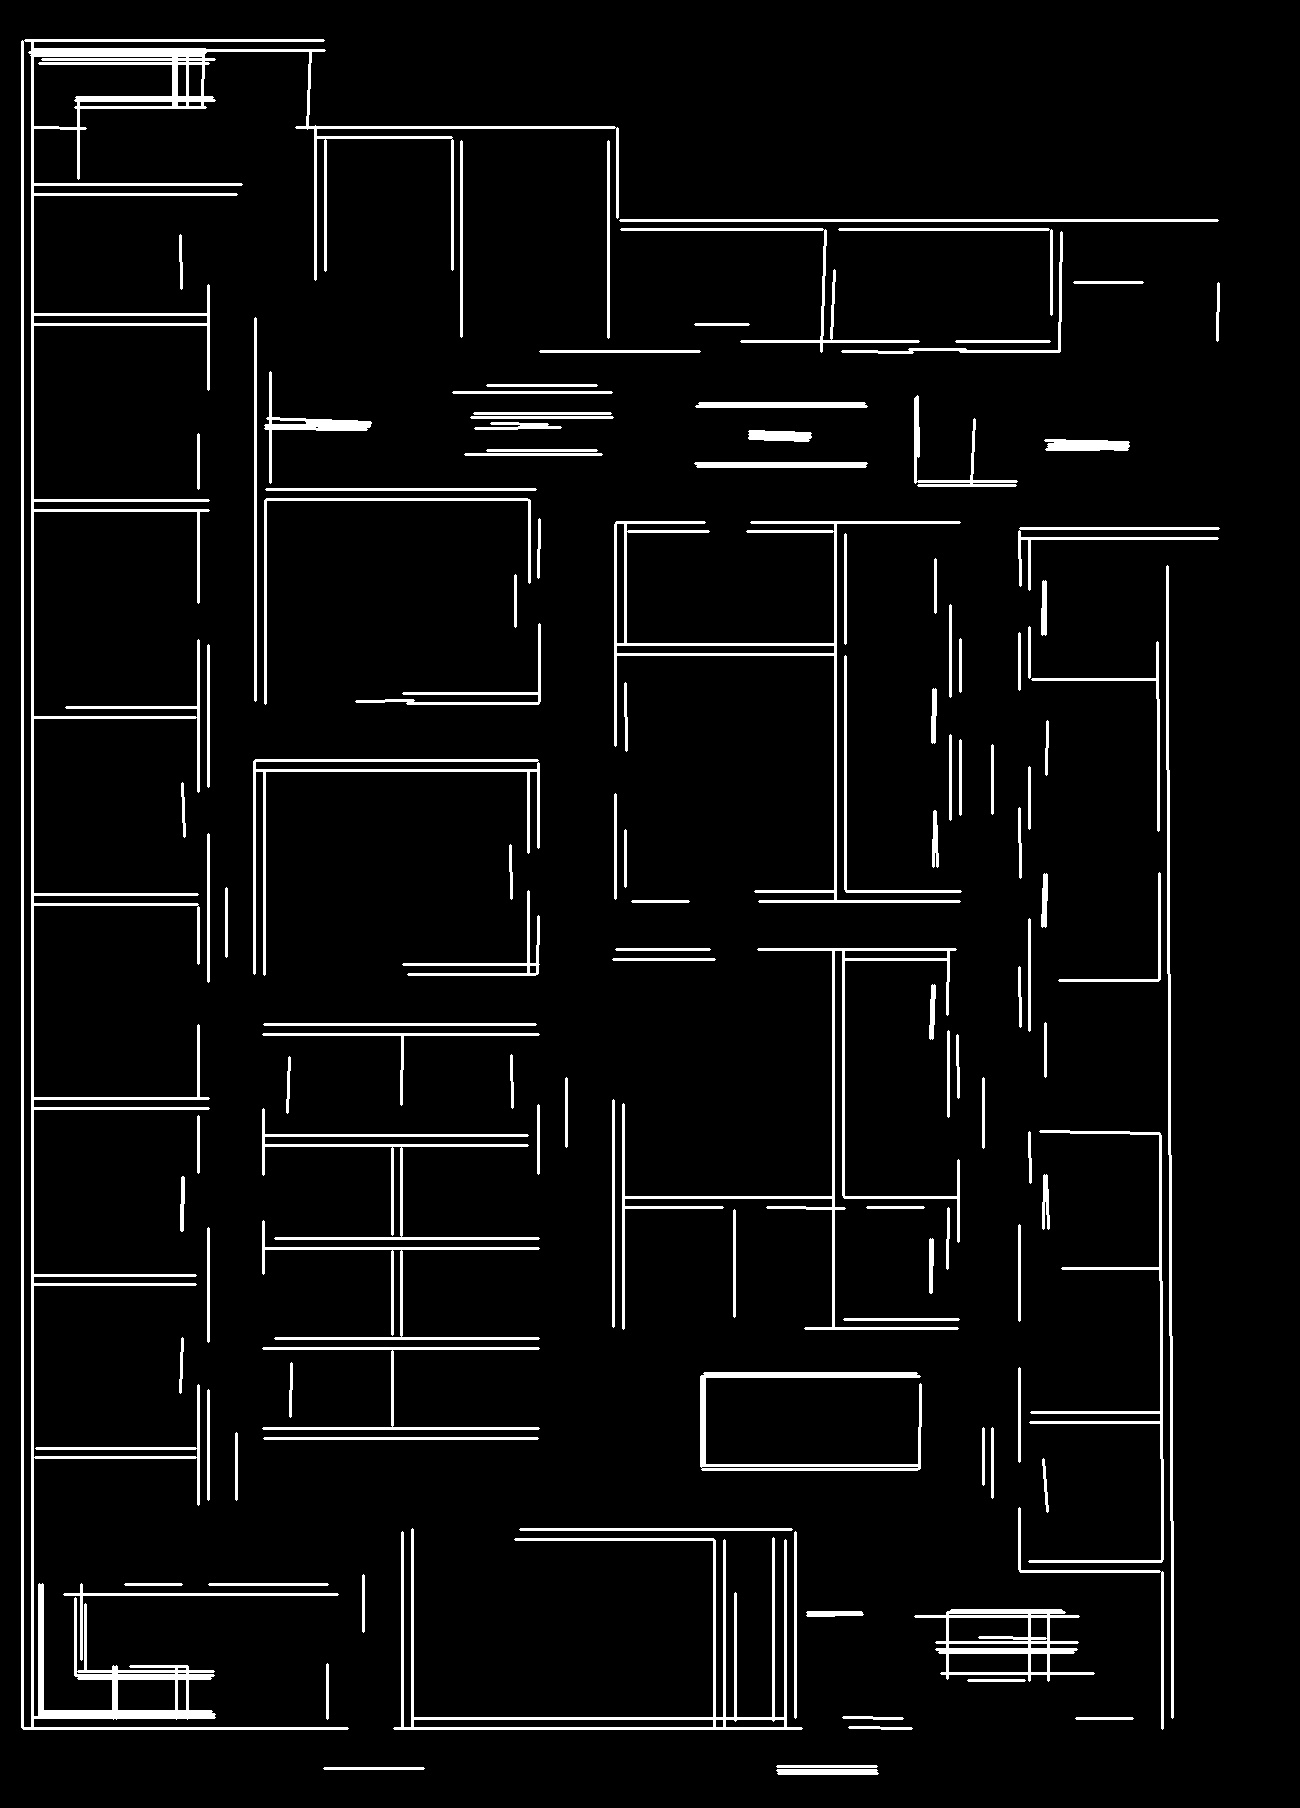
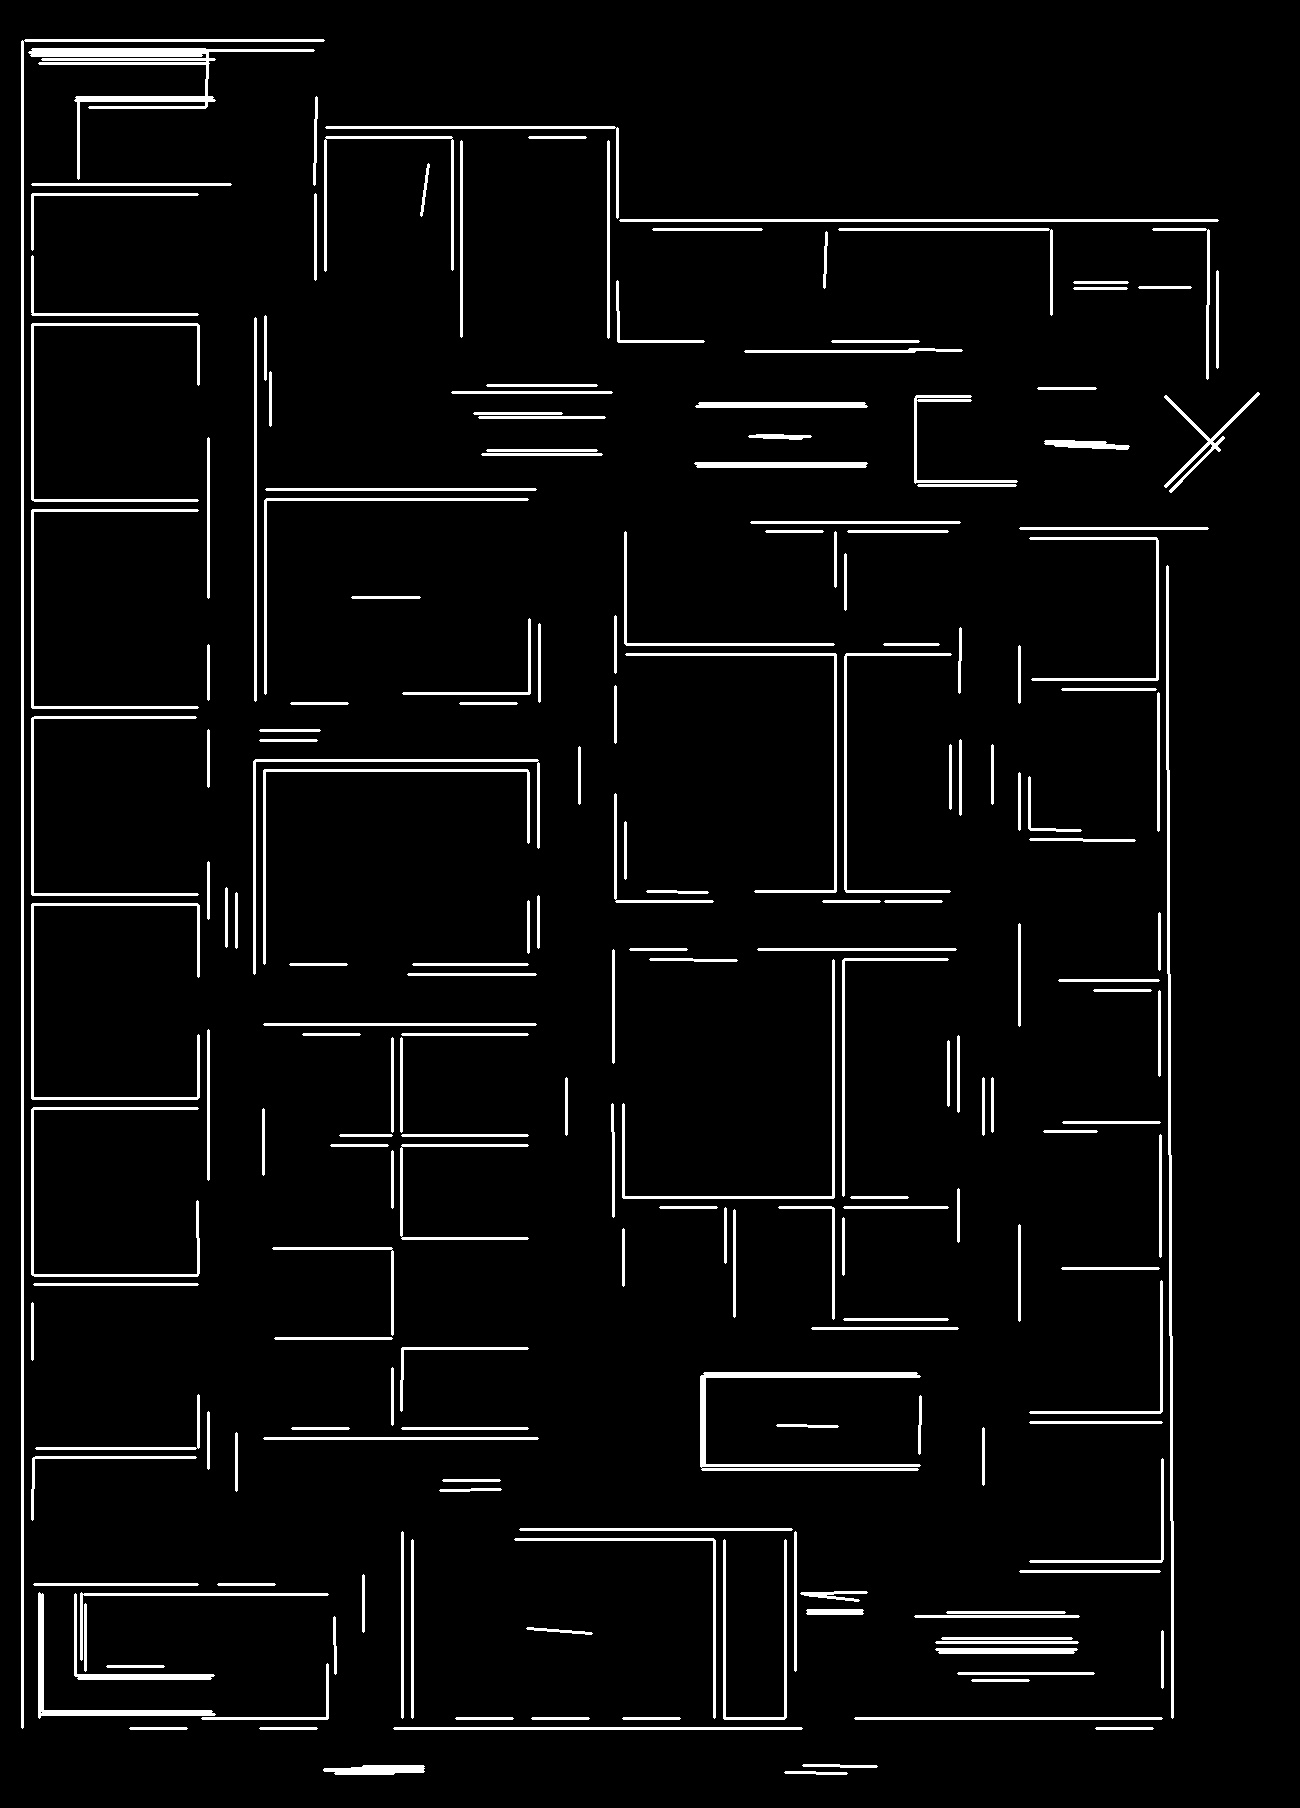
stuff

diff --git a/server/utils.py b/server/utils.py
@@ -58,6 +58,40 @@ def get_cleaned_edges(edges: np.ndarray) -> np.ndarray:
     return cleaned_edges
 
 
+def get_wall_contours(cleaned_image: np.ndarray) -> List[np.ndarray]:
+    """
+    Get wall contours from the cleaned image.
+
+    Args:
+        cleaned_image (np.ndarray): The cleaned image.
+
+    Returns:
+        List[np.ndarray]: A list of wall contours.
+    """
+    # Find contours on the cleaned image
+    contours, _ = cv2.findContours(
+        cleaned_image, cv2.RETR_EXTERNAL, cv2.CHAIN_APPROX_SIMPLE
+    )
+
+    wall_contours = []
+    for cnt in contours:
+        # Approximate the contour to reduce the number of points
+        approx = cv2.approxPolyDP(cnt, 3, True)
+
+        # Calculate the bounding rectangle of the contour
+        _, _, w, h = cv2.boundingRect(approx)
+
+        # Calculate the aspect ratio and area of the bounding rectangle
+        aspect_ratio = float(w) / h
+        area = cv2.contourArea(approx)
+
+        # Filter contours based on aspect ratio and area
+        if 0.2 < aspect_ratio < 5.0 and area > 1000:
+            wall_contours.append(approx)
+
+    return wall_contours
+
+
 def extract_walls(image_initial: Image) -> List[np.ndarray]:
     """
     Extract wall contours from the initial image.
@@ -94,30 +128,11 @@ def extract_walls(image_initial: Image) -> List[np.ndarray]:
     walls_extracted = cv2.bitwise_and(edges, edges, mask=wall_only_mask)
     cv2.imwrite("walls_extracted.jpg", walls_extracted)
 
-    # Find contours on the cleaned edges
-    contours, _ = cv2.findContours(
-        walls_extracted, cv2.RETR_EXTERNAL, cv2.CHAIN_APPROX_SIMPLE
-    )
+    wall_contours = get_wall_contours(walls_extracted)
 
-    wall_contours = []
-    for cnt in contours:
-        # Approximate the contour to reduce the number of points
-        approx = cv2.approxPolyDP(cnt, 3, True)
-
-        # Calculate the bounding rectangle of the contour
-        _, _, w, h = cv2.boundingRect(approx)
-
-        # Calculate the aspect ratio and area of the bounding rectangle
-        aspect_ratio = float(w) / h
-        area = cv2.contourArea(approx)
-
-        # Filter contours based on aspect ratio and area
-        if 0.2 < aspect_ratio < 5.0 and area > 1000:
-            wall_contours.append(approx)
-
-    # Create a blank image to draw the contours
-    contour_image = np.zeros_like(preprocessed_image_array)
-    cv2.drawContours(contour_image, wall_contours, -1, (255, 255, 255), 2)
-    cv2.imwrite("wall_contours.jpg", contour_image)
+    # Draw on blank image
+    blank_image = np.zeros_like(walls_extracted)
+    cv2.drawContours(blank_image, wall_contours, -1, (255, 255, 255), 2)
+    cv2.imwrite("walls_contours.jpg", blank_image)
 
     return wall_contours
